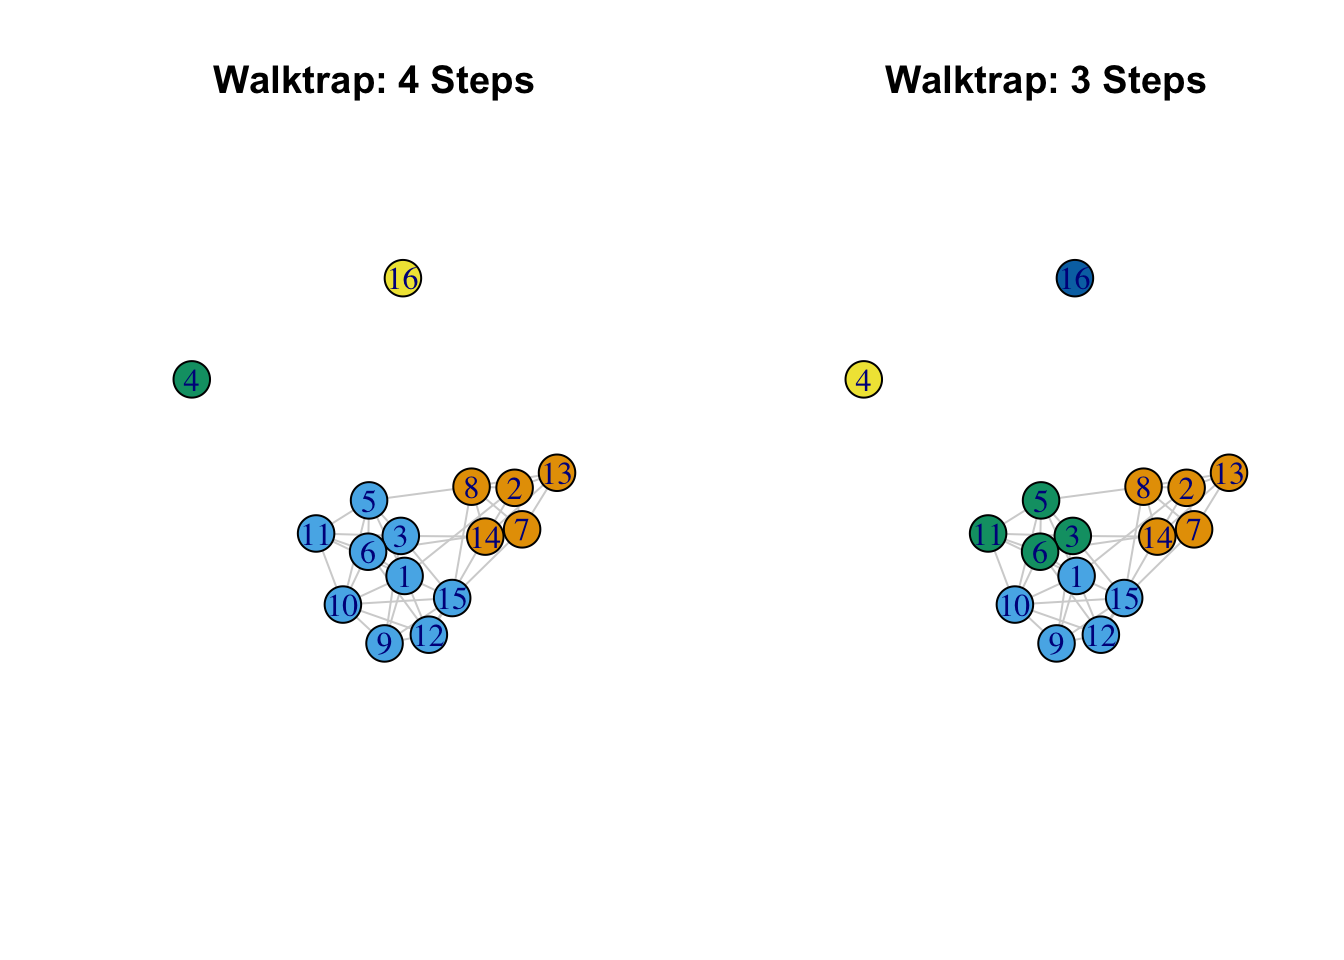
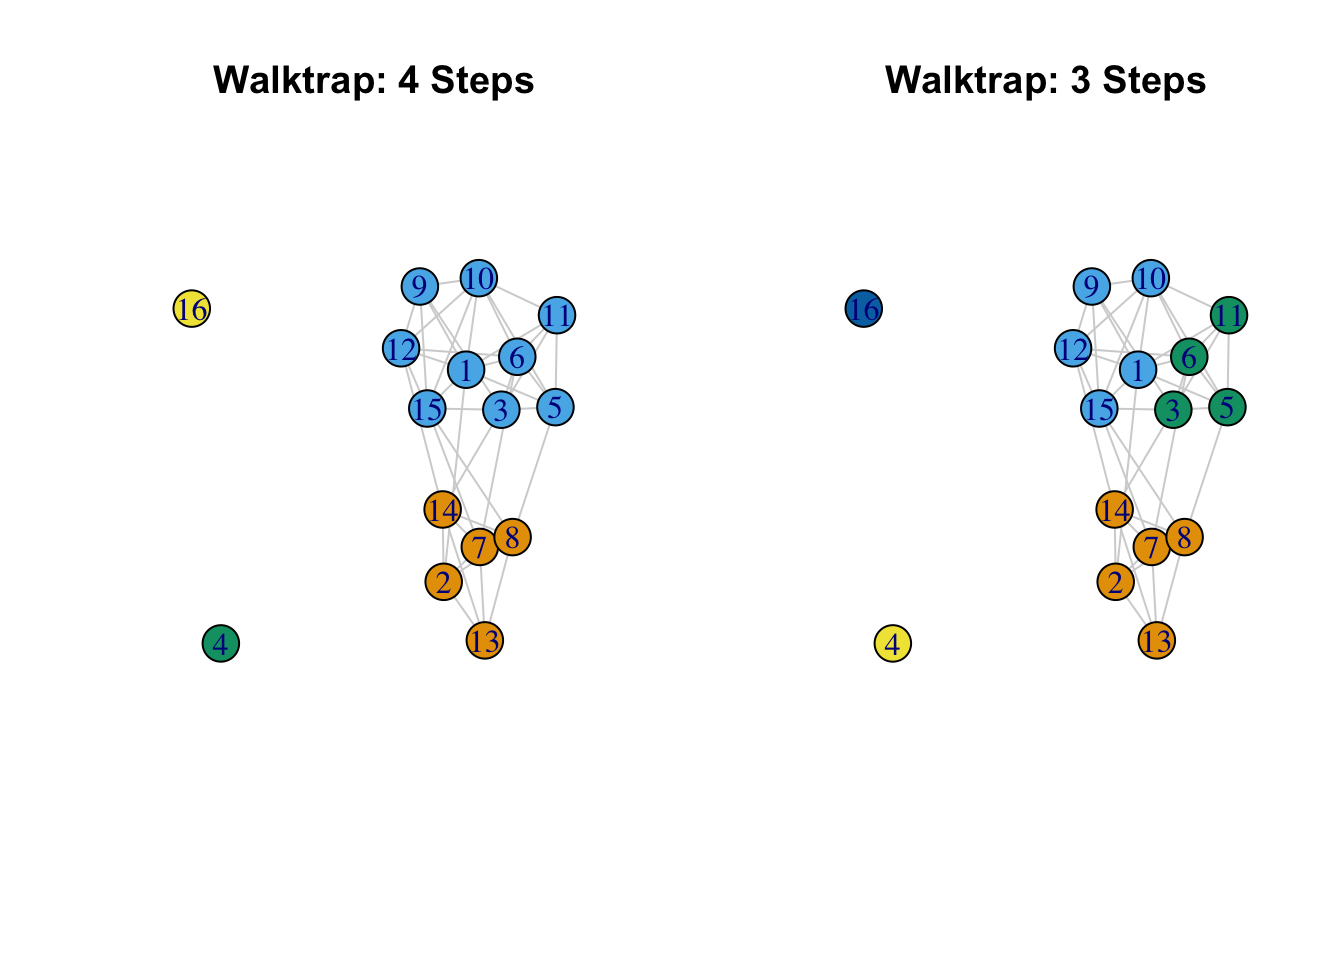
20250925

diff --git a/docs/W5_presentation.html b/docs/W5_presentation.html
@@ -308,10 +308,10 @@
 <span id="cb8-4"><a></a>                                       <span class="at">vertices =</span> class182_attributes) </span>
 <span id="cb8-5"><a></a>net182_friend </span></code></pre></div><button title="Copy to Clipboard" class="code-copy-button"><i class="bi"></i></button></div>
 <div class="cell-output cell-output-stdout">
-<pre><code>IGRAPH dcf5c55 DN-- 16 62 -- 
+<pre><code>IGRAPH b2d70c2 DN-- 16 62 -- 
 + attr: name (v/c), race (v/c), grade (v/n), gender (v/c), friend_tie
 | (e/n)
-+ edges from dcf5c55 (vertex names):
++ edges from b2d70c2 (vertex names):
  [1] 2 -&gt;1  2 -&gt;7  2 -&gt;8  2 -&gt;13 2 -&gt;14 3 -&gt;5  3 -&gt;6  3 -&gt;11 3 -&gt;14 3 -&gt;15
 [11] 5 -&gt;1  5 -&gt;3  5 -&gt;6  5 -&gt;8  5 -&gt;10 5 -&gt;11 6 -&gt;1  6 -&gt;3  6 -&gt;5  6 -&gt;7 
 [21] 6 -&gt;10 6 -&gt;11 6 -&gt;12 7 -&gt;2  7 -&gt;8  7 -&gt;13 7 -&gt;14 8 -&gt;2  8 -&gt;5  8 -&gt;7 
@@ -433,9 +433,9 @@ $no
 <div class="code-copy-outer-scaffold"><div class="sourceCode cell-code" id="cb18"><pre class="sourceCode numberSource r number-lines code-with-copy"><code class="sourceCode r"><span id="cb18-1"><a></a>net182_friend_und <span class="ot">&lt;-</span> <span class="fu">as_undirected</span>(net182_friend, <span class="at">mode =</span> <span class="st">"collapse"</span>) </span>
 <span id="cb18-2"><a></a>net182_friend_und</span></code></pre></div><button title="Copy to Clipboard" class="code-copy-button"><i class="bi"></i></button></div>
 <div class="cell-output cell-output-stdout">
-<pre><code>IGRAPH 9408f47 UN-- 16 42 -- 
+<pre><code>IGRAPH eb581a6 UN-- 16 42 -- 
 + attr: name (v/c), race (v/c), grade (v/n), gender (v/c)
-+ edges from 9408f47 (vertex names):
++ edges from eb581a6 (vertex names):
  [1] 1 --2  1 --5  3 --5  1 --6  3 --6  5 --6  2 --7  6 --7  2 --8  5 --8 
 [11] 7 --8  1 --9  3 --9  1 --10 5 --10 6 --10 9 --10 1 --11 3 --11 5 --11
 [21] 6 --11 10--11 1 --12 6 --12 9 --12 10--12 2 --13 7 --13 8 --13 2 --14
@@ -484,13 +484,17 @@ $no
 <li>Cohesive Blocking, 2) Walktrap, 3) [OPTION] Edge Betweenness 4) [OPTION] Multi-level Clustering</li>
 </ol></li>
 </ul>
-<h3 id="cohesive-blocking">Cohesive Blocking</h3>
+</section>
+<section id="cohesive-blocking" class="slide level2">
+<h2>1) Cohesive Blocking</h2>
 <ul>
 <li>Subset the network into groups based on vertex connectivity</li>
 <li>Iteratively search for subgroups that maintain connectivity under the removal of k nodes</li>
 <li>Starting from highly cohesive groups (large k) and moving down to less cohesive ones</li>
 </ul>
-<h3 id="cohesive-blocking-1">Cohesive Blocking</h3>
+</section>
+<section id="cohesive-blocking-1" class="slide level2">
+<h2>1) Cohesive Blocking</h2>
 <div class="cell">
 <div class="code-copy-outer-scaffold"><div class="sourceCode cell-code" id="cb22"><pre class="sourceCode numberSource r number-lines code-with-copy"><code class="sourceCode r"><span id="cb22-1"><a></a>friend_comm_cohesive <span class="ot">&lt;-</span> <span class="fu">cohesive_blocks</span>(<span class="at">graph =</span> net182_friend_und)</span>
 <span id="cb22-2"><a></a>friend_comm_cohesive <span class="co">#hard to interprete the result..... then...?</span></span></code></pre></div><button title="Copy to Clipboard" class="code-copy-button"><i class="bi"></i></button></div>
@@ -500,25 +504,20 @@ B-1      c 0, n 16
 '- B-2   c 4, n 14   ooo.oooooo ooooo. </code></pre>
 </div>
 </div>
-<h3 id="cohesive-blocking-2">Cohesive Blocking</h3>
+</section>
+<section id="cohesive-blocking-2" class="slide level2">
+<h2>1) Cohesive Blocking</h2>
 <ul>
 <li>Visualize the result!!</li>
 <li>Two blocks (one with vertex connectivity 0, second with vertex connectivity)</li>
 </ul>
 <div class="cell">
 <div class="code-copy-outer-scaffold"><div class="sourceCode cell-code" id="cb24"><pre class="sourceCode numberSource r number-lines code-with-copy"><code class="sourceCode r"><span id="cb24-1"><a></a><span class="fu">plot</span>(friend_comm_cohesive, net182_friend_und) </span></code></pre></div><button title="Copy to Clipboard" class="code-copy-button"><i class="bi"></i></button></div>
-<div class="cell-output-display">
-<div>
-<figure>
-<p><img data-src="W5_presentation_files/figure-revealjs/unnamed-chunk-14-1.png" width="528"></p>
-</figure>
+
 </div>
-</div>
-</div>
-<p>Clearly the blocking scheme first separates the isolates from the main component. Everyone in the main component is connected at cohesion level 4 so that it takes the removal of 4 people to disconnect the set. This mirrors the results we saw above.</p>
-<p>So far, we have walked through different algorithms to determine the communities in the friendship network. The results suggest that that there are likely 5 well-defined communities (including the two isolates). The cohesive blocking scheme would suggest that the main component, while potentially splitting into 3 subgroups, is itself still fairly cohesive (as all members are connected by 4 independent paths).</p>
-<p>We can take the results of the community analysis and do further analysis to tease out the substantive implications of the found communities. We could ask about behavioral norms across communities (e.g., deviant behaviors), the identities mapped onto each community, the relationships between communities (i.e., do members of one group dislike another?), and so on. Here we will look at how demographic characteristics do (or do not) map onto the communities. We will then look at the relationships between communities.</p>
-<h3 id="walktrap">1) Walktrap</h3>
+<img data-src="W5_presentation_files/figure-revealjs/unnamed-chunk-14-1.png" width="528" class="r-stretch"></section>
+<section id="walktrap" class="slide level2">
+<h2>2) Walktrap</h2>
 <ul>
 <li>Detects communities through a series of short random walks
 <ul>
@@ -532,7 +531,9 @@ B-1      c 0, n 16
 <span id="cb25-3"><a></a>friend_comm_wt4 <span class="ot">&lt;-</span> <span class="fu">cluster_walktrap</span>(<span class="at">graph =</span> net182_friend_und, <span class="at">steps =</span> <span class="dv">4</span>, </span>
 <span id="cb25-4"><a></a>                                    <span class="at">membership =</span> T)</span></code></pre></div><button title="Copy to Clipboard" class="code-copy-button"><i class="bi"></i></button></div>
 </div>
-<h3 id="walktrap-1">1) Walktrap</h3>
+</section>
+<section id="walktrap-1" class="slide level2">
+<h2>2) Walktrap</h2>
 <div class="cell">
 <div class="code-copy-outer-scaffold"><div class="sourceCode cell-code" id="cb26"><pre class="sourceCode numberSource r number-lines code-with-copy"><code class="sourceCode r"><span id="cb26-1"><a></a>friend_comm_wt4</span></code></pre></div><button title="Copy to Clipboard" class="code-copy-button"><i class="bi"></i></button></div>
 <div class="cell-output cell-output-stdout">
@@ -551,7 +552,9 @@ B-1      c 0, n 16
   + ... omitted several groups/vertices</code></pre>
 </div>
 </div>
-<h3 id="walktrap-2">1) Walktrap</h3>
+</section>
+<section id="walktrap-2" class="slide level2">
+<h2>2) Walktrap</h2>
 <p>Now let’s get the membership of each node as well the modularity score based on 4 our step solution.</p>
 <div class="cell">
 <div class="code-copy-outer-scaffold"><div class="sourceCode cell-code" id="cb28"><pre class="sourceCode numberSource r number-lines code-with-copy"><code class="sourceCode r"><span id="cb28-1"><a></a>mems_wt_4step <span class="ot">&lt;-</span> <span class="fu">membership</span>(friend_comm_wt4)</span>
@@ -568,7 +571,9 @@ B-1      c 0, n 16
 <pre><code>[1] 0.2695578</code></pre>
 </div>
 </div>
-<h3 id="walktrap-3">1) Walktrap</h3>
+</section>
+<section id="walktrap-3" class="slide level2">
+<h2>2) Walktrap</h2>
 <p>What would happen if we used 3 steps?</p>
 <div class="cell">
 <div class="code-copy-outer-scaffold"><div class="sourceCode cell-code" id="cb32"><pre class="sourceCode numberSource r number-lines code-with-copy"><code class="sourceCode r"><span id="cb32-1"><a></a>friend_comm_wt3 <span class="ot">&lt;-</span> <span class="fu">cluster_walktrap</span>(<span class="at">graph =</span> net182_friend_und, </span>
@@ -580,7 +585,9 @@ B-1      c 0, n 16
  2  1  3  4  3  3  1  1  2  2  3  2  1  1  2  5 </code></pre>
 </div>
 </div>
-<h3 id="walktrap-4">1) Walktrap</h3>
+</section>
+<section id="walktrap-4" class="slide level2">
+<h2>2) Walktrap</h2>
 <div class="cell">
 <div class="code-copy-outer-scaffold"><div class="sourceCode cell-code" id="cb34"><pre class="sourceCode numberSource r number-lines code-with-copy"><code class="sourceCode r"><span id="cb34-1"><a></a>mod_wt_3step <span class="ot">&lt;-</span> <span class="fu">modularity</span>(friend_comm_wt3)</span>
 <span id="cb34-2"><a></a>mod_wt_3step</span></code></pre></div><button title="Copy to Clipboard" class="code-copy-button"><i class="bi"></i></button></div>
@@ -588,7 +595,9 @@ B-1      c 0, n 16
 <pre><code>[1] 0.2797619</code></pre>
 </div>
 </div>
-<h3 id="walktrap-5">1) Walktrap</h3>
+</section>
+<section id="walktrap-5" class="slide level2">
+<h2>2) Walktrap</h2>
 <p>We can see that the modularity is slightly higher when we use 3 steps. We can compare the two partitions using the <code>table</code> function:</p>
 <div class="cell">
 <div class="code-copy-outer-scaffold"><div class="sourceCode cell-code" id="cb36"><pre class="sourceCode numberSource r number-lines code-with-copy"><code class="sourceCode r"><span id="cb36-1"><a></a><span class="fu">table</span>(mems_wt_4step, mems_wt_3step)</span></code></pre></div><button title="Copy to Clipboard" class="code-copy-button"><i class="bi"></i></button></div>
@@ -601,7 +610,9 @@ mems_wt_4step 1 2 3 4 5
             4 0 0 0 0 1</code></pre>
 </div>
 </div>
-<h3 id="walktrap-6">1) Walktrap</h3>
+</section>
+<section id="walktrap-6" class="slide level2">
+<h2>2) Walktrap</h2>
 <ul>
 <li>Let’s also plot the network based on the found communities, comparing the two partitions.</li>
 <li>Color the nodes based on the communities found using the walktrap algorithm.</li>
@@ -617,15 +628,11 @@ mems_wt_4step 1 2 3 4 5
 <span id="cb38-8"><a></a><span class="fu">plot</span>(net182_friend_und, <span class="at">layout =</span> layout, <span class="co">#note the use of layout</span></span>
 <span id="cb38-9"><a></a>     <span class="at">vertex.color =</span> mems_wt_3step, <span class="at">edge.color =</span> <span class="st">"light gray"</span>, </span>
 <span id="cb38-10"><a></a>     <span class="at">vertex.size =</span> <span class="dv">20</span>, <span class="at">main =</span> <span class="st">"Walktrap: 3 Steps"</span>)</span></code></pre></div><button title="Copy to Clipboard" class="code-copy-button"><i class="bi"></i></button></div>
-<div class="cell-output-display">
-<div>
-<figure>
-<p><img data-src="W5_presentation_files/figure-revealjs/unnamed-chunk-22-1.png" width="672"></p>
-</figure>
+
 </div>
-</div>
-</div>
-<h3 id="walktrap-7">1) Walktrap</h3>
+<img data-src="W5_presentation_files/figure-revealjs/unnamed-chunk-22-1.png" width="672" class="r-stretch"></section>
+<section id="walktrap-7" class="slide level2">
+<h2>2) Walktrap</h2>
 <ul>
 <li>2 basic communities (2, 7, 8, 13, 14 and 1, 3, 5, 6, 9, 10, 11, 12, 15)</li>
 <li>one of those communities having their own internal division.</li>
@@ -635,8 +642,8 @@ mems_wt_4step 1 2 3 4 5
 <section id="done" class="slide level2">
 <h2>Done!</h2>
 <ul>
-<li><p>Please check KLMS for the assignment of this week(til Friday)</p></li>
-<li><p>If you want to study in-depth knowledge for the ego network, dyad, and triad network, please check this week [Option] in the assignment</p></li>
+<li>Please check KLMS for the assignment of this week(til Friday)</li>
+<li>If you want to study in-depth knowledge for algorithms for community detectionthe ego network, dyad, and triad network, please check this week [Option] in the assignment</li>
 </ul>
 
 
